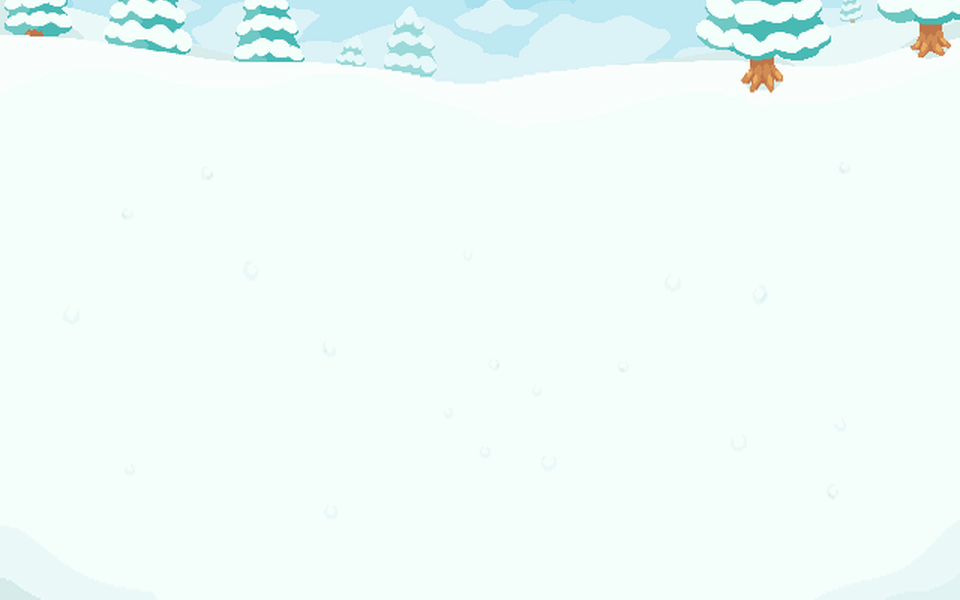
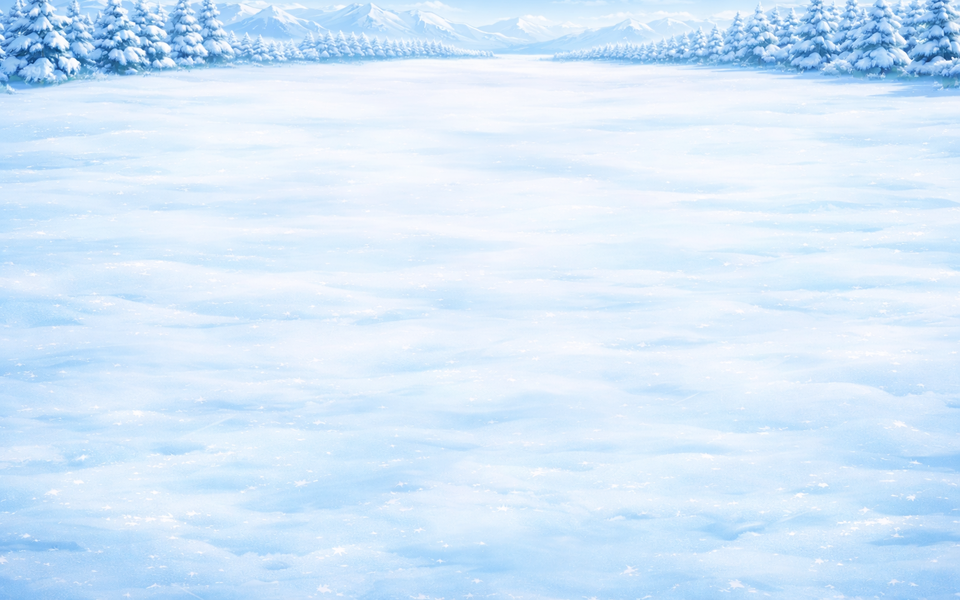
Teren bitwy odpowiada polu mapy, na którym doszło do walki (#39)
Sześć nowych teł (łąka, las, plaża, pustkowie, bagno, śnieg), przeszkody
z klocków mapy danego klimatu, palma i suchy krzak. Pola z przeszkodą
przyciemnione, siatka mocniejsza.

Claude-Session: https://claude.ai/code/session_01MVogJn4DB8sWmRV7qMJoQR

diff --git a/src/scenes/BattleScene.ts b/src/scenes/BattleScene.ts
@@ -119,6 +119,8 @@ interface DaneZPrzygody {
    * i obrońcy miasta (`naPoluPrzeciw`). Gracz wystawia zawsze dwa (`NA_POLU`).
    */
   naPolu?: number;
+  /** Teren pola bitwy z pola mapy (`terenBitwy`) — tło i przeszkody. */
+  teren?: TerenBitwy;
 }
 // Wszystkie zasady walki biorą się STĄD i tylko stąd. Scena ma je odgrywać,
 // nie powtarzać — druga kopia reguł rozjechałaby się z symulatorem balansu.
@@ -128,6 +130,7 @@ import { RYWAL_ID, poziom, type StanMapy } from '../data/mapa';
 import { DOSW_BOHATERA_ZA_WALKE, type WynikDruzyny, rozliczDruzyne } from '../data/podsumowanie';
 import { efekt } from '../data/umiejetnosci';
 import { nazwaTrzeciego } from '../data/ataki';
+import { PRZESZKODY_BITWY, TERENY_BITWY, type OpisTerenuBitwy, type TerenBitwy } from '../data/terenBitwy';
 import { pokazPodsumowanieWalki } from '../visual/podsumowanieWalki';
 import {
   GUARD_REDUCTION,
@@ -301,23 +304,17 @@ const CARD_Y = BOARD_Y + (BOARD_H - CARD_H) / 2;
 const CARD_LEFT_X = BOARD_X + 10;
 const CARD_RIGHT_X = BOARD_X + BOARD_W - CARD_W - 10;
 
-/** Tła pola bitwy — jedno losowane na bitwę, jak zmienne krajobrazy w Heroes 3. */
-const TERRAINS = [
-  { key: 'laka', label: 'Łąka', obstacles: ['drzewo', 'sosna', 'krzak', 'glaz', 'kopiec'] },
-  { key: 'plaza', label: 'Plaża', obstacles: ['palma', 'trawa', 'glaz_piaskowy', 'kopiec_piaskowy'] },
-  { key: 'snieg', label: 'Śnieżna polana', obstacles: ['sosna_snieg', 'drzewo_zimowe', 'glaz_sniezny', 'kopiec_sniezny'] },
-  { key: 'noc', label: 'Nocna łąka', obstacles: ['drzewo_noc', 'sosna_noc', 'glaz_noc', 'kopiec_noc'] },
-  { key: 'jesien', label: 'Jesienny las', obstacles: ['drzewo_jesien', 'sosna_jesien', 'krzak_jesien', 'kopiec_jesien'] },
-];
-
 /**
- * Drobne przeszkody rysujemy znacznie mniej niż drzewa. Wcześniej wszystko
- * dostawało rozmiar drzewa, przez co mały rysunek 16 pikseli rozdymał się
- * na całe pole i wyglądał jak klocki.
+ * Tła pola bitwy — teren z pola mapy, na którym stoi trener (`terenBitwy`,
+ * `src/data/terenBitwy.ts`). Bitwa bez mapy (pokaz) losuje jeden z nich.
  */
-const isSmallObstacle = (kind: string) => /^(krzak|trawa|glaz|kopiec)/.test(kind);
+const TERRAINS = Object.values(TERENY_BITWY);
 
-const ALL_OBSTACLES = [...new Set(TERRAINS.flatMap((t) => t.obstacles))];
+/** Drobne przeszkody (skały, suche krzaki) rysujemy mniej niż drzewa. */
+const isSmallObstacle = (kind: string) => /(skala|krzak)/.test(kind);
+
+/** Klucz tekstury przeszkody: klocek mapy (`zestaw/plik`) albo plik z `terrain/obstacles/`. */
+const kluczPrzeszkody = (kind: string) => (kind.includes('/') ? `k-${kind.replace('/', '-')}` : kind);
 
 /**
  * Ile przeszkód stawiamy — losowo, jak w Heroes 3. Nasza plansza jest znacznie
@@ -516,7 +513,7 @@ export class BattleScene extends Phaser.Scene {
   private wrogZMapy: { skad: number; id: number }[] = [];
 
   /** Krajobraz tej bitwy — losowany raz, przy tworzeniu sceny. */
-  private terrain = TERRAINS[0];
+  private terrain: OpisTerenuBitwy = TERENY_BITWY.laka;
 
   /** Zamki, których armie się biją. */
   private playerFaction: Faction = FACTIONS[0];
@@ -548,8 +545,9 @@ export class BattleScene extends Phaser.Scene {
     for (const t of TERRAINS) {
       this.load.image(t.key, `${import.meta.env.BASE_URL}terrain/${t.key}.png`);
     }
-    for (const key of ALL_OBSTACLES) {
-      this.load.image(key, `${import.meta.env.BASE_URL}terrain/obstacles/${key}.png`);
+    for (const kind of PRZESZKODY_BITWY) {
+      const plik = kind.includes('/') ? `mapa/klocki/${kind}.png` : `terrain/obstacles/${kind}.png`;
+      this.load.image(kluczPrzeszkody(kind), `${import.meta.env.BASE_URL}${plik}`);
     }
     for (const kto of ['janek', 'ela']) {
       this.load.image(`tr-glowa-${kto}`, `${import.meta.env.BASE_URL}kampania/glowa-${kto}.png`);
@@ -666,7 +664,8 @@ export class BattleScene extends Phaser.Scene {
     // `Math.random`, więc bitwa nie dawała się powtórzyć nawet z ziarnem,
     // a zgłoszenie błędu było wtedy tylko opowieścią. Efekty wizualne dalej
     // mogą losować swobodnie — one na przebieg walki nie wpływają.
-    this.terrain = Phaser.Math.RND.pick(TERRAINS);
+    // Teren z mapy (`terenBitwy`); bez mapy — losowy, jak dotąd.
+    this.terrain = (this.zPrzygody?.teren && TERENY_BITWY[this.zPrzygody.teren]) || Phaser.Math.RND.pick(TERRAINS);
     this.drawArmies();
     this.applyHarnessParams();
     // Ikony muszą istnieć, zanim cokolwiek po nie sięgnie — rysują się do
@@ -814,14 +813,16 @@ export class BattleScene extends Phaser.Scene {
       // Drzewo trzyma się pnia u dołu, płaska kępa czy pagórek siedzą środkiem
       // na polu — stąd różne punkty zaczepienia.
       const obstacle = this.add
-        .image(x, y, kind)
-        .setOrigin(0.5, /^(kopiec|glaz)/.test(kind) ? 0.62 : 0.78);
+        .image(x, y, kluczPrzeszkody(kind))
+        .setOrigin(0.5, isSmallObstacle(kind) ? 0.7 : 0.86);
       // Skalujemy z zachowaniem proporcji: drzewa są wysokie, głazy przysadziste,
       // więc sztywny rozmiar spłaszczyłby jedne albo rozciągnął drugie.
       const big = !isSmallObstacle(kind);
+      // Skała i suchy krzak (klocki mapy) — na pół hexa wszerz wyglądały jak
+      // kupka kamyków; teraz zajmują pole jak głaz w Heroes 3.
       const fit = Math.min(
-        (HEX_W * (big ? 0.9 : 0.46)) / obstacle.width,
-        (HEX_W * (big ? 1.45 : 0.5)) / obstacle.height
+        (HEX_W * (big ? 0.9 : 0.78)) / obstacle.width,
+        (HEX_W * (big ? 1.45 : 0.7)) / obstacle.height
       );
       obstacle.setScale(fit * Phaser.Math.FloatBetween(0.92, 1.06));
 

diff --git a/src/data/terenBitwy.ts b/src/data/terenBitwy.ts
@@ -1,0 +1,57 @@
+/**
+ * Teren pola bitwy — z pola mapy, na którym stoi trener (jak w Heroes 3:
+ * tło bitwy to teren, na którym doszło do walki).
+ *
+ * Zgłoszenie gracza: „teren bitwy ma odpowiadać terenowi, na którym doszło do
+ * walki na ekranie mapy — śnieg, trawa itd." Dotąd tło było losowane
+ * z pięciu krajobrazów, więc walka na łące Polany mogła wypaść na śniegu.
+ *
+ * Przeszkody bitwy to te same drzewa i skały co klocki mapy danego klimatu
+ * (`public/mapa/klocki/<zestaw>/`), więc walka wygląda jak kawałek mapy.
+ */
+import type { StanMapy, Teren } from './mapa';
+
+export type TerenBitwy = 'laka' | 'las' | 'piasek' | 'ziemia' | 'bagno' | 'snieg';
+
+export interface OpisTerenuBitwy {
+  key: TerenBitwy;
+  label: string;
+  /** Przeszkody: `k-<zestaw>/<plik>` (klocek mapy) albo `przeszkoda-<nazwa>`. */
+  obstacles: string[];
+}
+
+const DRZEWA = (z: string) => [`${z}/las-1x1-a`, `${z}/las-1x1-b`];
+const SKALA = (z: string) => [`${z}/skala-1x1`];
+
+export const TERENY_BITWY: Record<TerenBitwy, OpisTerenuBitwy> = {
+  laka: { key: 'laka', label: 'Łąka', obstacles: [...DRZEWA('trawa'), ...DRZEWA('trawa'), ...SKALA('trawa')] },
+  las: { key: 'las', label: 'Leśna polana', obstacles: [...DRZEWA('trawa'), ...DRZEWA('trawa'), ...SKALA('trawa')] },
+  piasek: { key: 'piasek', label: 'Plaża', obstacles: ['przeszkoda-palma', 'przeszkoda-palma', ...SKALA('trawa')] },
+  ziemia: { key: 'ziemia', label: 'Pustkowie', obstacles: ['przeszkoda-krzak-suchy', ...SKALA('trawa'), ...SKALA('trawa')] },
+  bagno: { key: 'bagno', label: 'Bagno', obstacles: [...DRZEWA('bagno'), ...DRZEWA('bagno'), ...SKALA('bagno')] },
+  snieg: { key: 'snieg', label: 'Śnieżne pole', obstacles: [...DRZEWA('zima'), ...DRZEWA('zima'), ...SKALA('zima')] },
+};
+
+/** Wszystkie pliki przeszkód (do wczytania w scenie bitwy). */
+export const PRZESZKODY_BITWY = [...new Set(Object.values(TERENY_BITWY).flatMap((t) => t.obstacles))];
+
+/**
+ * Teren bitwy dla pola (x, y) planszy. Klimat planszy (`USTAWIENIA.klocki`:
+ * `trawa`, `bagno`, `zima`) przestawia zwykłą trawę: na zimowej planszy
+ * trawa to tundra pod śniegiem, na bagiennej — mokra łąka. Trawa otoczona
+ * lasem (co najmniej trzy z ośmiu sąsiadów) to leśna polana.
+ */
+export function terenBitwy(s: Pick<StanMapy, 'teren' | 'szer' | 'wys'>, x: number, y: number, klimat?: string): TerenBitwy {
+  const t: Teren | undefined = s.teren[y]?.[x];
+  if (t === 'snieg') return 'snieg';
+  if (t === 'bagno') return 'bagno';
+  if (t === 'piasek') return 'piasek';
+  if (t === 'jalowa' || t === 'skaly') return klimat === 'zima' ? 'snieg' : 'ziemia';
+  if (klimat === 'zima') return 'snieg';
+  if (klimat === 'bagno') return 'bagno';
+  if (t === 'las') return 'las';
+  let lasu = 0;
+  for (let dy = -1; dy <= 1; dy++)
+    for (let dx = -1; dx <= 1; dx++) if ((dx || dy) && s.teren[y + dy]?.[x + dx] === 'las') lasu++;
+  return lasu >= 3 ? 'las' : 'laka';
+}

diff --git a/src/visual/board.ts b/src/visual/board.ts
@@ -299,7 +299,7 @@ function drawGrid(scene: Phaser.Scene) {
         r: HEX_R - 0.5,
       });
 
-      g.lineStyle(1.6, 0x2a1606, 0.32);
+      g.lineStyle(1.6, 0x2a1606, 0.44);
       g.strokePoints(hexPoints(x, y, HEX_R - 1), true);
       bevel(g, x, y, HEX_R - 2.5, 0.22, 0.12);
     }
@@ -445,8 +445,12 @@ export function pulse(scene: Phaser.Scene, target: Phaser.GameObjects.Graphics, 
 export function drawObstacleShadow(scene: Phaser.Scene, x: number, y: number, width: number) {
   const g = scene.add.graphics().setDepth(Z.grid + 0.1);
   g.setMask(boardMask(scene));
+  // Zablokowane pole ciemniejsze, jak udeptana ziemia pod przeszkodą
+  // w Heroes 3 — krytyk: przeszkoda nie czytała się jako „tu nie wejdziesz".
+  g.fillStyle(C.shadow, 0.16);
+  g.fillPoints(hexPoints(x, y, HEX_R - 1.5), true);
   for (let i = 3; i >= 1; i--) {
-    g.fillStyle(C.shadow, 0.1);
+    g.fillStyle(C.shadow, 0.14);
     g.fillEllipse(x, y + 4, width * (0.6 + i * 0.12), width * (0.2 + i * 0.05));
   }
   return g;

diff --git a/src/scenes/AdventureScene.ts b/src/scenes/AdventureScene.ts
@@ -3,6 +3,7 @@ import { pelnyPlecak, plecakBohatera, type Plecak } from '../data/przedmioty';
 import { kluczPortretuPanelu, spriteDoPortretow, wczytajPortrety } from '../visual/portrety';
 import { ZESTAWY_KLIMATU } from '../data/zestawy-klimatu';
 import { NAZWY_KLOCKOW, ulozKlocki } from '../data/klocki';
+import { terenBitwy } from '../data/terenBitwy';
 import {
   ARTEFAKTY,
   BUDOWLE,
@@ -5169,6 +5170,13 @@ export class AdventureScene extends Phaser.Scene {
         oObiekt: o.id,
         // Zapas z Pokémartu — co zostanie po bitwie, wraca w wyniku.
         plecak: { ...plecakBohatera(this.stan.bohater) },
+        // Tło i przeszkody bitwy z pola, na którym stoi trener.
+        teren: terenBitwy(
+          this.stan,
+          this.stan.bohater.x,
+          this.stan.bohater.y,
+          planszaPoId(this.stan.mapa).modul.USTAWIENIA?.klocki
+        ),
         // Dzikie: jeden na jednego; rywal, sale i miasta: dwa na dwa.
         naPolu: naPoluPrzeciw(o),
         powrot: 'adventure',

diff --git a/tools/walka_wczytaj.py b/tools/walka_wczytaj.py
@@ -1,0 +1,44 @@
+#!/usr/bin/env python3
+"""Tła i przeszkody pola bitwy w stylu gier Pokémon (ekran bitwy).
+
+Tło zależy od pola mapy, na którym stoi trener (`src/data/terenBitwy.ts`).
+Prompty: `tools/PROMPTY-MAPA-3.md`, „Tła walki wg terenu".
+
+    python3 tools/walka_wczytaj.py
+      tools/wsad/tlo-walka-<teren>.png → public/terrain/<teren>.png (960 × 600)
+      tools/wsad/przeszkoda-<nazwa>.png → public/terrain/obstacles/przeszkoda-<nazwa>.png
+"""
+from pathlib import Path
+
+from PIL import Image
+
+from osadz_podstawke import oczysc_brzeg
+
+KORZEN = Path(__file__).resolve().parent.parent
+WSAD = KORZEN / 'tools' / 'wsad'
+TLA = KORZEN / 'public' / 'terrain'
+W, H = 960, 600
+
+
+def main() -> None:
+    for zrodlo in sorted(WSAD.glob('tlo-walka-*.png')):
+        teren = zrodlo.stem.removeprefix('tlo-walka-')
+        im = Image.open(zrodlo).convert('RGB')
+        # Kadr na proporcje 8 : 5 od dołu — horyzont zostaje u góry, a to, co
+        # plansza i tak przytnie, odpada z nieba.
+        k = max(W / im.width, H / im.height)
+        im = im.resize((round(im.width * k), round(im.height * k)), Image.LANCZOS)
+        x = (im.width - W) // 2
+        im = im.crop((x, im.height - H, x + W, im.height))
+        im.save(TLA / f'{teren}.png', optimize=True)
+        print(f'  terrain/{teren}.png')
+    for zrodlo in sorted(WSAD.glob('przeszkoda-*.png')):
+        im = oczysc_brzeg(Image.open(zrodlo).convert('RGBA'))
+        im = im.crop(im.getchannel('A').point(lambda v: 255 if v > 24 else 0).getbbox())
+        im.thumbnail((256, 256), Image.LANCZOS)
+        im.save(TLA / 'obstacles' / zrodlo.name, optimize=True)
+        print(f'  terrain/obstacles/{zrodlo.name}')
+
+
+if __name__ == '__main__':
+    main()

diff --git a/tools/PROMPTY-MAPA-3.md b/tools/PROMPTY-MAPA-3.md
@@ -714,3 +714,48 @@ Two or three large boulders of grey-blue rock covered with fresh white snow, icy
 ```
 One large boulder of grey-blue rock covered with fresh white snow, icy blue shadows, one tile wide. It is one modular terrain block for a tile-based adventure map: identical blocks are placed side by side and one behind another to build large forests and mountain ranges, so the block must look complete on its own AND join naturally with copies of itself; its base sits on a flat rectangular footprint and its bottom edge is a natural, slightly uneven line of trunks or rock foot, not a straight cut. Seen from the FRONT like a classic 2D strategy-game adventure map (the Heroes of Might and Magic 3 map camera): the camera faces north and looks down at about 35 degrees, the front of everything faces the viewer squarely, no diagonal or isometric rotation, flat ground plane, light from the upper left. Match the colours, light, outline and finish of the attached reference images exactly. Transparent background, no ground patch, no pad, no cast shadow, clear margin on all four sides, nothing cropped. Clean anime game illustration like official Pokemon game art: smooth soft shading, crisp clean vivid colours, simple rounded shapes, a thin darker outline. No medieval or fantasy elements, no castles, no pixel art, no 3D render look, no photorealism. No text, no letters, no logo, no watermark, no characters, no people, no creatures.
 ```
+
+
+## Tła walki wg terenu (ekran bitwy)
+
+Tło pola bitwy zależy od pola, na którym stoi trener (`terenBitwy` w `src/data/terenBitwy.ts`). Pliki `tlo-walka-<teren>.png` (kryjące), wzorem kotwica mapy 2; wczytuje `tools/walka_wczytaj.py` do `public/terrain/<teren>.png`.
+
+<!-- plik: tlo-walka-laka.png | styl: brak | proporcje: 3:2 | wzor: kotwica-mapa-2.png -->
+```
+A sunny lush green meadow: short bright green grass with a few tiny flowers; on the horizon a line of round leafy trees and soft blue sky. A battlefield background for a turn-based creature battle in a 2D strategy game (like the battle screen of Heroes of Might and Magic 3), painted in exactly the same clean anime style, colours and light as the attached map image (official Pokemon game art). Wide landscape image. The top 15 percent is a low horizon strip with scenery far away; the remaining 85 percent is OPEN, FLAT, EVEN ground seen from above at a steep angle, with only small subtle texture details and no big objects, so that a hexagonal battle grid and creatures can be placed anywhere on it. No trees, rocks or objects in the open area, no paths across it, no water in the open area, no creatures, no people, no text, no user interface, no grid.
+```
+
+<!-- plik: tlo-walka-las.png | styl: brak | proporcje: 3:2 | wzor: kotwica-mapa-2.png -->
+```
+A shady forest clearing: soft green grass with patches of moss and fallen leaves, dappled sunlight; on the horizon a dense wall of leafy trees and pines. A battlefield background for a turn-based creature battle in a 2D strategy game (like the battle screen of Heroes of Might and Magic 3), painted in exactly the same clean anime style, colours and light as the attached map image (official Pokemon game art). Wide landscape image. The top 15 percent is a low horizon strip with scenery far away; the remaining 85 percent is OPEN, FLAT, EVEN ground seen from above at a steep angle, with only small subtle texture details and no big objects, so that a hexagonal battle grid and creatures can be placed anywhere on it. No trees, rocks or objects in the open area, no paths across it, no water in the open area, no creatures, no people, no text, no user interface, no grid.
+```
+
+<!-- plik: tlo-walka-piasek.png | styl: brak | proporcje: 3:2 | wzor: kotwica-mapa-2.png -->
+```
+A warm sandy beach and dunes: smooth golden sand with small ripples; on the horizon a strip of blue sea, a few palm crowns and a bright sky. A battlefield background for a turn-based creature battle in a 2D strategy game (like the battle screen of Heroes of Might and Magic 3), painted in exactly the same clean anime style, colours and light as the attached map image (official Pokemon game art). Wide landscape image. The top 15 percent is a low horizon strip with scenery far away; the remaining 85 percent is OPEN, FLAT, EVEN ground seen from above at a steep angle, with only small subtle texture details and no big objects, so that a hexagonal battle grid and creatures can be placed anywhere on it. No trees, rocks or objects in the open area, no paths across it, no water in the open area, no creatures, no people, no text, no user interface, no grid.
+```
+
+<!-- plik: tlo-walka-ziemia.png | styl: brak | proporcje: 3:2 | wzor: kotwica-mapa-2.png -->
+```
+A rough dry highland: packed brown earth with small pebbles and dry grass tufts; on the horizon grey-beige rocky hills and a pale sky. A battlefield background for a turn-based creature battle in a 2D strategy game (like the battle screen of Heroes of Might and Magic 3), painted in exactly the same clean anime style, colours and light as the attached map image (official Pokemon game art). Wide landscape image. The top 15 percent is a low horizon strip with scenery far away; the remaining 85 percent is OPEN, FLAT, EVEN ground seen from above at a steep angle, with only small subtle texture details and no big objects, so that a hexagonal battle grid and creatures can be placed anywhere on it. No trees, rocks or objects in the open area, no paths across it, no water in the open area, no creatures, no people, no text, no user interface, no grid.
+```
+
+<!-- plik: tlo-walka-bagno.png | styl: brak | proporcje: 3:2 | wzor: kotwica-mapa-2.png -->
+```
+A misty swamp clearing: dark olive-green grass and damp mud with small puddles and reed tufts; on the horizon drooping swamp willows in light mist. A battlefield background for a turn-based creature battle in a 2D strategy game (like the battle screen of Heroes of Might and Magic 3), painted in exactly the same clean anime style, colours and light as the attached map image (official Pokemon game art). Wide landscape image. The top 15 percent is a low horizon strip with scenery far away; the remaining 85 percent is OPEN, FLAT, EVEN ground seen from above at a steep angle, with only small subtle texture details and no big objects, so that a hexagonal battle grid and creatures can be placed anywhere on it. No trees, rocks or objects in the open area, no paths across it, no water in the open area, no creatures, no people, no text, no user interface, no grid.
+```
+
+<!-- plik: tlo-walka-snieg.png | styl: brak | proporcje: 3:2 | wzor: kotwica-mapa-2.png -->
+```
+A snowy winter field: smooth fresh white snow with soft blue shadows and a few icy sparkles; on the horizon snow-covered pines and pale blue mountains. A battlefield background for a turn-based creature battle in a 2D strategy game (like the battle screen of Heroes of Might and Magic 3), painted in exactly the same clean anime style, colours and light as the attached map image (official Pokemon game art). Wide landscape image. The top 15 percent is a low horizon strip with scenery far away; the remaining 85 percent is OPEN, FLAT, EVEN ground seen from above at a steep angle, with only small subtle texture details and no big objects, so that a hexagonal battle grid and creatures can be placed anywhere on it. No trees, rocks or objects in the open area, no paths across it, no water in the open area, no creatures, no people, no text, no user interface, no grid.
+```
+
+<!-- plik: przeszkoda-palma.png | styl: brak | proporcje: 1:1 | wzor: kotwica-mapa-2.png -->
+```
+One single palm tree with a curved trunk and a bright green crown, standing on a tiny patch of sand. Single object for a battle board. Seen from the front, slightly from above, same clean anime Pokemon game style as the attached image. Transparent background, no shadow, nothing cropped, no text.
+```
+
+<!-- plik: przeszkoda-krzak-suchy.png | styl: brak | proporcje: 1:1 | wzor: kotwica-mapa-2.png -->
+```
+One single dry thorny bush with a few brown leaves and small rocks at its base, for a rough dry highland. Single object for a battle board. Seen from the front, slightly from above, same clean anime Pokemon game style as the attached image. Transparent background, no shadow, nothing cropped, no text.
+```

diff --git a/STAN.md b/STAN.md
@@ -2637,3 +2637,19 @@ po wygranej bez płacenia) — liczy go `rozliczDruzyne`.
 za jagody) i `probe-pojedynki.ts` (porażka bez teleportu) zaktualizowane.
 `probe-bohater.mjs` (klik w bohatera na mapie) pada już na bazie — do
 sprawdzenia osobno.
+
+## Teren bitwy z pola mapy (2026-09-30)
+
+Tło i przeszkody bitwy wynikają z pola, na którym stoi trener
+(`src/data/terenBitwy.ts`, `terenBitwy(stan, x, y, klimat)`), jak w Heroes 3.
+Sześć terenów: łąka, leśna polana (≥3 sąsiadów lasu), plaża (piasek),
+pustkowie (jałowa/skały), bagno, śnieg. Klimat planszy (`USTAWIENIA.klocki`)
+przestawia zwykłą trawę: zima → śnieg, bagno → bagno. Przeszkody to te same
+klocki drzew i skał co na mapie (`public/mapa/klocki/<zestaw>/`), plus
+palma i suchy krzak (`public/terrain/obstacles/przeszkoda-*.png`). Tła
+malowane OpenAI (`tlo-walka-<teren>.png`, prompty w `PROMPTY-MAPA-3.md`),
+wczytywane `tools/walka_wczytaj.py` do `public/terrain/<teren>.png`.
+Bez danych z przygody (sondy, podgląd `?ekran=walka`) teren jest losowy.
+Po ślepym krytyku: pole z przeszkodą lekko przyciemnione, siatka mocniejsza.
+Stare `public/terrain/{jesien,noc,plaza}.png` i dawne przeszkody są już
+nieużywane — do usunięcia w porządkach.
